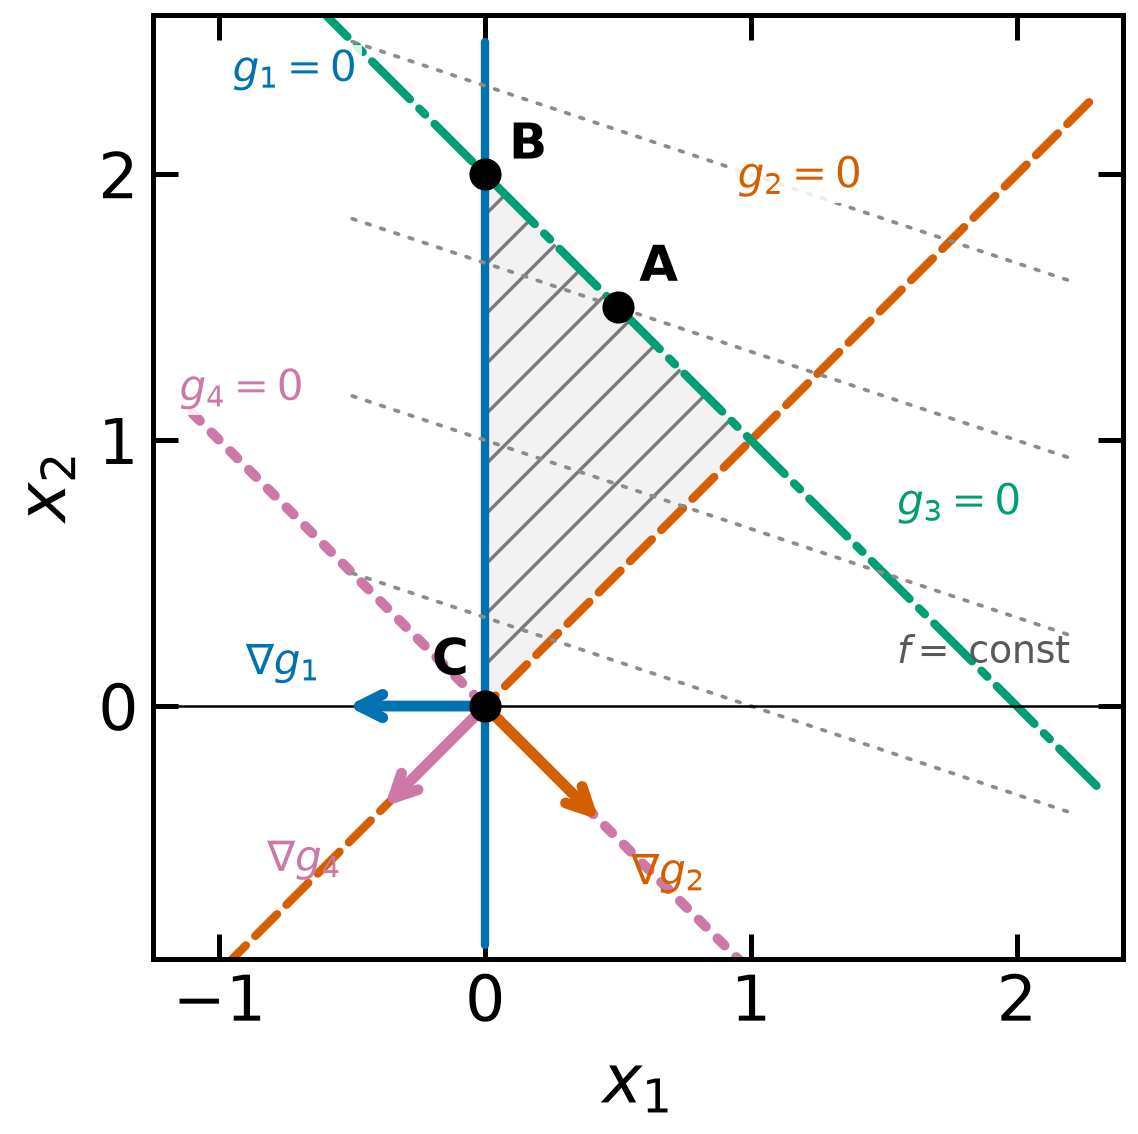
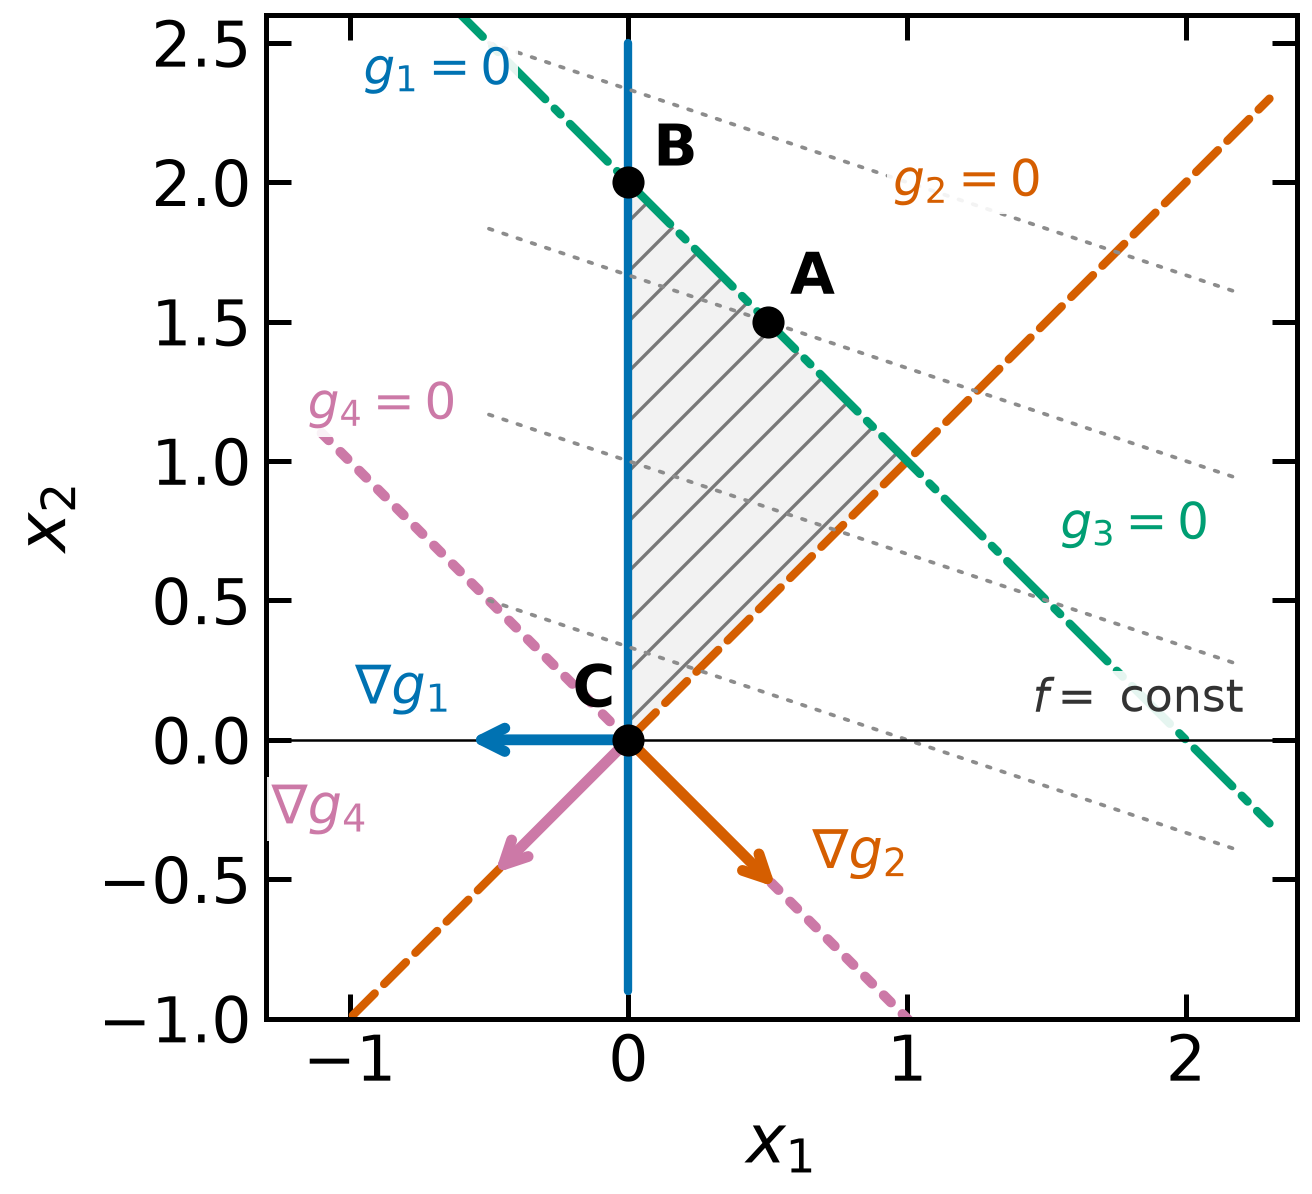
Lecture 20 check figure: larger, offset labels

diff --git a/figures/plots/cq-licq-mfcq-check.py b/figures/plots/cq-licq-mfcq-check.py
@@ -15,7 +15,7 @@ import matplotlib.pyplot as plt
 C1, C2, C3, C4 = '#0072B2', '#D55E00', '#009E73', '#CC79A7'
 
 def make_figure():
-    fig, ax = plt.subplots(figsize=(6.2, 4.1))
+    fig, ax = plt.subplots(figsize=(6.2, 4.3))
     tri = plt.Polygon([(0, 0), (0, 2), (1, 1)], closed=True, facecolor='0.9',
                       edgecolor='none', hatch='//', alpha=.5)
     ax.add_patch(tri)
@@ -27,23 +27,25 @@ def make_figure():
     for c in (1, 3, 5, 7):
         t = np.linspace(-.5, 2.2, 5)
         ax.plot(t, (c - t) / 3, color='0.55', ls=(0, (1, 3)), lw=.9)
-    ax.text(1.55, .16, r'$f=$ const', fontsize=9, color='0.35')
-    ax.text(-.95, 2.35, r'$g_1=0$', color=C1, fontsize=10, bbox=dict(fc='white', ec='none', alpha=.85, pad=1.2))
-    ax.text(.95, 1.95, r'$g_2=0$', color=C2, fontsize=10, bbox=dict(fc='white', ec='none', alpha=.85, pad=1.2))
-    ax.text(1.55, .72, r'$g_3=0$', color=C3, fontsize=10, bbox=dict(fc='white', ec='none', alpha=.85, pad=1.2))
-    ax.text(-1.15, 1.15, r'$g_4=0$', color=C4, fontsize=10, bbox=dict(fc='white', ec='none', alpha=.85, pad=1.2))
+    ax.text(1.45, .1, r'$f=$ const', fontsize=11, color='0.2',
+            bbox=dict(fc='white', ec='none', alpha=.9, pad=1.5))
+    ax.text(-.95, 2.35, r'$g_1=0$', color=C1, fontsize=12, bbox=dict(fc='white', ec='none', alpha=.9, pad=1.5))
+    ax.text(.95, 1.95, r'$g_2=0$', color=C2, fontsize=12, bbox=dict(fc='white', ec='none', alpha=.9, pad=1.5))
+    ax.text(1.55, .72, r'$g_3=0$', color=C3, fontsize=12, bbox=dict(fc='white', ec='none', alpha=.9, pad=1.5))
+    ax.text(-1.15, 1.15, r'$g_4=0$', color=C4, fontsize=12, bbox=dict(fc='white', ec='none', alpha=.9, pad=1.5))
     for (x, y, lab, dx, dy) in [(.5, 1.5, 'A', .08, .1), (0, 2, 'B', .09, .06),
                                 (0, 0, 'C', -.2, .12)]:
         ax.scatter([x], [y], color='black', s=45, zorder=6)
-        ax.text(x + dx, y + dy, lab, fontsize=12, weight='bold')
-    for v, col, lab, off in [((-.55, 0), C1, r'$\nabla g_1$', (-.35, .12)),
-                             ((.45, -.45), C2, r'$\nabla g_2$', (.1, -.22)),
-                             ((-.4, -.4), C4, r'$\nabla g_4$', (-.42, -.22))]:
+        ax.text(x + dx, y + dy, lab, fontsize=14, weight='bold')
+    for v, col, lab, pos in [((-.6, 0), C1, r'$\nabla g_1$', (-.98, .13)),
+                             ((.55, -.55), C2, r'$\nabla g_2$', (.66, -.46)),
+                             ((-.5, -.5), C4, r'$\nabla g_4$', (-1.28, -.3))]:
         ax.annotate('', xy=v, xytext=(0, 0), zorder=5,
                     arrowprops=dict(arrowstyle='->', lw=2.6, color=col))
-        ax.text(v[0] + off[0], v[1] + off[1], lab, color=col, fontsize=10)
+        ax.text(pos[0], pos[1], lab, color=col, fontsize=13, zorder=7,
+                bbox=dict(fc='white', ec='none', alpha=.9, pad=1.2))
     ax.set_aspect('equal')
-    ax.set(xlim=(-1.25, 2.4), ylim=(-.95, 2.6), xlabel='$x_1$', ylabel='$x_2$')
+    ax.set(xlim=(-1.3, 2.4), ylim=(-1.0, 2.6), xlabel='$x_1$', ylabel='$x_2$')
     ax.axhline(0, color='black', lw=.6)
     fig.tight_layout()
     return fig
